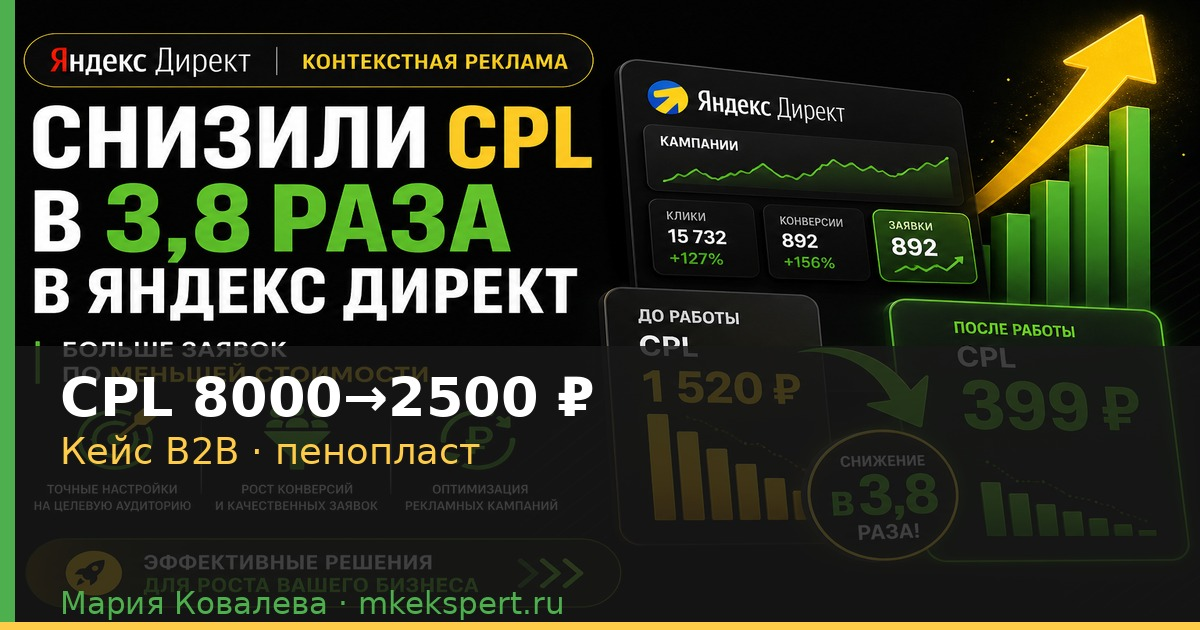
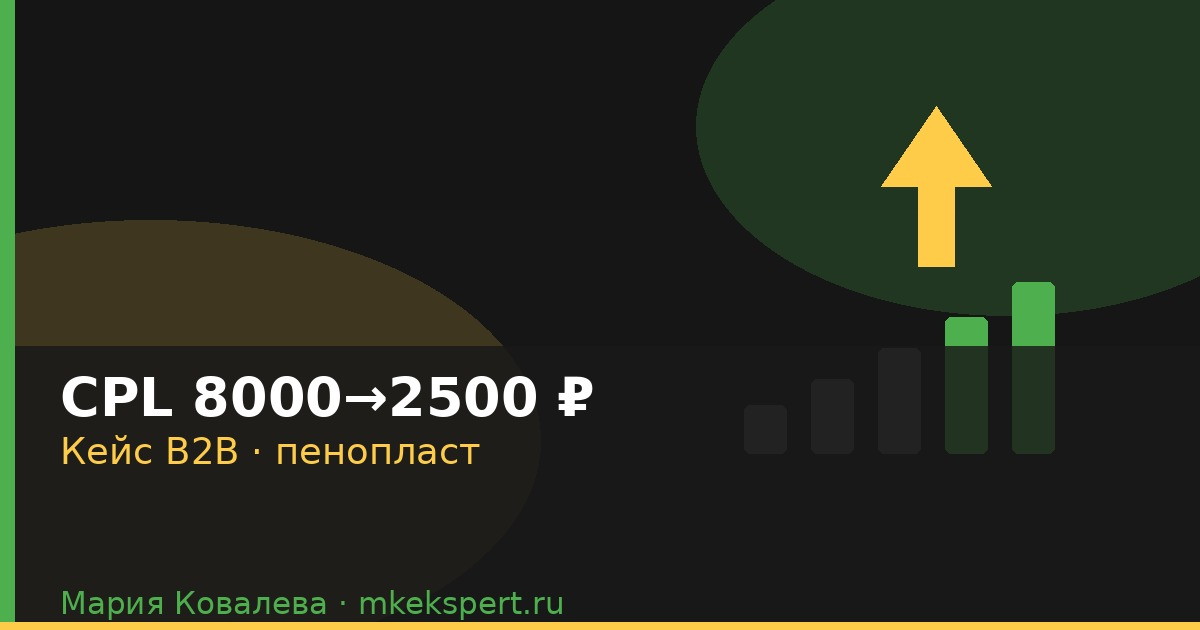
feat(vk): нативная SMM-обложка 4:5 и фикс загрузки фото в VK
- Переработан draw_vk_smm_cover: герой-цифра, ×3 дешевле, чипы метрик
- cover_vk_stats в очереди для вторичных KPI кейса
- upload_vk_wall_photo: имя файла + проверка пустого photo
- Обновлена обложка penoplast-case-vk.jpg, прикреплена к посту #205

diff --git a/автоматизация-контента/automation/generate_cover.py b/автоматизация-контента/automation/generate_cover.py
@@ -6,6 +6,7 @@ from __future__ import annotations
 import argparse
 import base64
 import os
+import re
 import textwrap
 from pathlib import Path
 
@@ -231,7 +232,235 @@ def draw_bright_background(size: tuple[int, int]) -> Image.Image:
     return img
 
 
+def _format_num(s: str) -> str:
+    digits = re.sub(r"\D", "", s)
+    if not digits:
+        return s.strip()
+    return f"{int(digits):,}".replace(",", " ")
+
+
+def _parse_cover_copy(headline: str, subline: str, *, stats: list[str] | None = None) -> dict[str, str | list[str]]:
+    h = headline.replace("–", "→").replace("->", "→")
+    m = re.search(r"(\d[\d\s]*)\s*→\s*(\d[\d\s]*)", h)
+    tag = "КЕЙС B2B"
+    niche = ""
+    if subline:
+        parts = [p.strip() for p in re.split(r"[·•]", subline) if p.strip()]
+        for p in parts:
+            if re.search(r"b2b|кейс", p, re.I):
+                tag = p.upper() if len(p) < 20 else "КЕЙС B2B"
+            else:
+                niche = p
+    metric_label = "CPL заявки"
+    if re.search(r"cpl", h, re.I):
+        metric_label = "CPL заявки"
+    elif re.search(r"заяв", h, re.I):
+        metric_label = "заявки"
+    hook = niche or subline or "Яндекс Директ"
+    extra_stats = [s.strip() for s in (stats or []) if s and s.strip()]
+    if m:
+        was_raw = int(re.sub(r"\D", "", m.group(1)) or "0")
+        now_raw = int(re.sub(r"\D", "", m.group(2)) or "0")
+        multiplier = ""
+        if was_raw > 0 and now_raw > 0 and was_raw > now_raw:
+            ratio = was_raw / now_raw
+            multiplier = f"×{ratio:.0f}" if ratio >= 1.5 else ""
+        return {
+            "mode": "metric",
+            "tag": tag,
+            "was": _format_num(m.group(1)),
+            "now": _format_num(m.group(2)),
+            "metric_label": metric_label,
+            "niche": niche,
+            "hook": f"{niche} · Директ" if niche else "Разбор рекламы",
+            "multiplier": multiplier,
+            "stats": extra_stats,
+        }
+    return {
+        "mode": "text",
+        "tag": tag,
+        "title": headline.rstrip(".?!"),
+        "subtitle": subline,
+        "hook": hook,
+        "stats": extra_stats,
+    }
+
+
+def _text_width(draw: ImageDraw.ImageDraw, text: str, font: ImageFont.FreeTypeFont | ImageFont.ImageFont) -> float:
+    return draw.textlength(text, font=font)
+
+
+def _draw_text_centered(
+    draw: ImageDraw.ImageDraw,
+    text: str,
+    y: int,
+    font: ImageFont.FreeTypeFont | ImageFont.ImageFont,
+    fill: str | tuple[int, int, int],
+    canvas_w: int,
+) -> None:
+    x = int((canvas_w - _text_width(draw, text, font)) // 2)
+    draw.text((x, y), text, fill=fill, font=font)
+
+
+def _draw_strikethrough(
+    draw: ImageDraw.ImageDraw,
+    text: str,
+    x: int,
+    y: int,
+    font: ImageFont.FreeTypeFont | ImageFont.ImageFont,
+    fill: str | tuple[int, int, int],
+) -> None:
+    draw.text((x, y), text, fill=fill, font=font)
+    tw = _text_width(draw, text, font)
+    mid_y = y + font.size // 2
+    draw.line([(x, mid_y), (x + int(tw), mid_y)], fill=fill, width=max(3, font.size // 18))
+
+
+def _draw_stat_chip(
+    draw: ImageDraw.ImageDraw,
+    x: int,
+    y: int,
+    w: int,
+    h: int,
+    value: str,
+    label: str,
+    *,
+    accent: str = ACCENT_GREEN,
+    value_fill: str = TEXT,
+) -> None:
+    draw.rounded_rectangle([x, y, x + w, y + h], radius=22, fill="#1a1a1a", outline=accent, width=2)
+    font_v = load_font(34, bold=True)
+    font_l = load_font(24)
+    draw.text((x + 24, y + 18), value, fill=value_fill, font=font_v)
+    draw.text((x + 24, y + 58), label, fill="#9a9a9a", font=font_l)
+
+
+def draw_vk_smm_cover(headline: str, subline: str, *, stats: list[str] | None = None) -> Image.Image:
+    """Вертикальная обложка 4:5 под ленту VK — нативный SMM-макет."""
+    w, h = VK_PORTRAIT
+    green = hex_rgb(ACCENT_GREEN)
+    yellow = hex_rgb(ACCENT_YELLOW)
+    meta = _parse_cover_copy(headline, subline, stats=stats)
+
+    img = Image.new("RGB", (w, h), "#0c0c0c")
+    draw = ImageDraw.Draw(img)
+
+    # градиент + мягкое свечение
+    for y in range(h):
+        t = y / max(h - 1, 1)
+        base = int(10 + 18 * t)
+        draw.line([(0, y), (w, y)], fill=(base, base, base + 3))
+
+    glow = Image.new("RGBA", (w, h), (0, 0, 0, 0))
+    gd = ImageDraw.Draw(glow)
+    gd.ellipse([w - 640, -240, w + 120, 520], fill=(*green, 70))
+    gd.ellipse([-280, int(h * 0.42), 420, h + 200], fill=(*yellow, 50))
+    gd.ellipse([int(w * 0.15), int(h * 0.55), int(w * 0.95), int(h * 0.98)], fill=(40, 40, 40, 90))
+    img = Image.alpha_composite(img.convert("RGBA"), glow).convert("RGB")
+    draw = ImageDraw.Draw(img)
+
+    # бренд-полосы
+    draw.rectangle([0, 0, 14, h], fill=ACCENT_GREEN)
+    draw.rectangle([0, h - 8, w, h], fill=ACCENT_YELLOW)
+
+    pad = 52
+
+    # тег + ниша
+    font_tag = load_font(28, bold=True)
+    tag = str(meta.get("tag", "КЕЙС"))
+    tag_w = int(_text_width(draw, tag, font_tag)) + 44
+    draw.rounded_rectangle([pad, 44, pad + tag_w, 98], radius=24, fill=green)
+    draw.text((pad + 22, 54), tag, fill="#0a1a0a", font=font_tag)
+
+    if meta["mode"] == "metric":
+        niche = str(meta.get("niche") or "Яндекс Директ")
+        font_niche = load_font(34, bold=True)
+        niche_cap = niche[0].upper() + niche[1:] if niche else ""
+        draw.text((pad + tag_w + 20, 56), niche_cap, fill="#d8d8d8", font=font_niche)
+
+        # мини-график справа вверху
+        chart_x, chart_y = w - pad - 180, 70
+        bars = [28, 42, 56, 78, 96]
+        bar_w = 22
+        for i, bh in enumerate(bars):
+            color = green if i >= 3 else (55, 55, 55)
+            bx = chart_x + i * (bar_w + 10)
+            draw.rounded_rectangle([bx, chart_y + 100 - bh, bx + bar_w, chart_y + 100], radius=5, fill=color)
+
+        # блок «было» — компактно, по центру
+        font_was = load_font(52, bold=True)
+        font_was_lbl = load_font(26)
+        was_text = f"{meta['was']} ₽"
+        was_y = 200
+        was_x = int((w - _text_width(draw, was_text, font_was)) // 2)
+        _draw_strikethrough(draw, was_text, was_x, was_y, font_was, "#c07070")
+        _draw_text_centered(draw, "было", was_y - 34, font_was_lbl, "#666666", w)
+
+        # стрелка вниз = снижение стоимости (хорошо)
+        ax = w // 2
+        draw.rounded_rectangle([ax - 34, 290, ax + 34, 360], radius=18, fill="#1f1f1f", outline=green, width=2)
+        draw.polygon([(ax, 338), (ax + 16, 312), (ax - 16, 312)], fill=green)
+
+        # герой — результат
+        font_now = load_font(128, bold=True)
+        font_metric = load_font(38, bold=True)
+        now_text = f"{meta['now']} ₽"
+        now_y = 400
+        _draw_text_centered(draw, now_text, now_y, font_now, TEXT, w)
+        _draw_text_centered(draw, str(meta["metric_label"]), now_y + 138, font_metric, ACCENT_YELLOW, w)
+
+        # бейдж ×3
+        multiplier = str(meta.get("multiplier") or "")
+        chip_y = 580
+        if multiplier:
+            badge = f"{multiplier} дешевле"
+            font_badge = load_font(36, bold=True)
+            badge_w = int(_text_width(draw, badge, font_badge)) + 56
+            badge_x = (w - badge_w) // 2
+            draw.rounded_rectangle([badge_x, chip_y, badge_x + badge_w, chip_y + 64], radius=32, fill=yellow)
+            draw.text((badge_x + 28, chip_y + 12), badge, fill="#1a1400", font=font_badge)
+            chip_y += 88
+
+        # доп. метрики кейса
+        stat_lines = list(meta.get("stats") or [])
+        if not stat_lines:
+            stat_lines = ["59 заявок/мес", "0,1% → 3%"]
+        chip_h = 96
+        gap = 20
+        if len(stat_lines) >= 2:
+            chip_w = (w - pad * 2 - gap) // 2
+            _draw_stat_chip(draw, pad, chip_y, chip_w, chip_h, stat_lines[0], "после перезапуска")
+            _draw_stat_chip(
+                draw, pad + chip_w + gap, chip_y, chip_w, chip_h,
+                stat_lines[1], "конверсия сайта", accent=ACCENT_YELLOW, value_fill=ACCENT_YELLOW,
+            )
+        elif stat_lines:
+            chip_w = w - pad * 2
+            _draw_stat_chip(draw, pad, chip_y, chip_w, chip_h, stat_lines[0], "результат")
+
+        # подпись канала
+        draw.text((pad, h - 96), "Мария Ковалева · Яндекс Директ", fill=ACCENT_GREEN, font=load_font(30, bold=True))
+        draw.text((pad, h - 58), "mkekspert.ru · кейс на Дзен", fill="#707070", font=load_font(26))
+    else:
+        font_title = load_font(68, bold=True)
+        font_sub = load_font(38, bold=True)
+        y = 200
+        for line in textwrap.wrap(str(meta["title"]), width=14)[:3]:
+            _draw_text_centered(draw, line, y, font_title, TEXT, w)
+            y += 82
+        if meta.get("subtitle"):
+            for line in textwrap.wrap(str(meta["subtitle"]), width=22)[:2]:
+                _draw_text_centered(draw, line, y + 16, font_sub, ACCENT_YELLOW, w)
+                y += 50
+        draw.text((pad, h - 88), "Мария Ковалева · Яндекс Директ", fill=ACCENT_GREEN, font=load_font(30, bold=True))
+        draw.text((pad, h - 52), "mkekspert.ru", fill="#666666", font=load_font(26))
+
+    return img
+
+
 def generate_pil_fallback(headline: str, subline: str, size: tuple[int, int]) -> Image.Image:
+    if size == VK_PORTRAIT:
+        return draw_vk_smm_cover(headline, subline)
     img = draw_bright_background(size)
     return overlay_brand_text(img, headline, subline)
 
@@ -272,6 +501,7 @@ def generate_cover(
     slug: str = "",
     import_path: Path | None = None,
     from_landscape: Path | None = None,
+    vk_stats: list[str] | None = None,
 ) -> Path:
     if vk:
         target = VK_PORTRAIT
@@ -304,7 +534,10 @@ def generate_cover(
             print(f"⚠ GPT: {exc} — fallback PIL")
 
     if img is None:
-        img = generate_pil_fallback(headline, subline, target)
+        if vk:
+            img = draw_vk_smm_cover(headline, subline, stats=vk_stats)
+        else:
+            img = generate_pil_fallback(headline, subline, target)
 
     out.parent.mkdir(parents=True, exist_ok=True)
     img.save(out, "JPEG", quality=92)
@@ -315,20 +548,17 @@ def cover_paths(slug: str) -> tuple[Path, Path]:
     return COVERS / f"{slug}.jpg", COVERS / f"{slug}-vk.jpg"
 
 
-def ensure_covers(slug: str, headline: str, subline: str = "", *, force: bool = False) -> tuple[Path, Path]:
+def ensure_covers(slug: str, headline: str, subline: str = "", *, force: bool = False, vk_stats: list[str] | None = None) -> tuple[Path, Path]:
     landscape, vk_cover = cover_paths(slug)
     if force or not landscape.exists():
         generate_cover(headline, subline, landscape, square=False, slug=slug)
         print(f"✓ {landscape}")
     if force or not vk_cover.exists():
-        if landscape.exists():
-            generate_cover(headline, subline, vk_cover, from_landscape=landscape)
-        else:
-            generate_cover(headline, subline, vk_cover, vk=True, slug=slug)
+        generate_cover(headline, subline, vk_cover, vk=True, slug=slug, use_gpt=False, vk_stats=vk_stats)
         print(f"✓ {vk_cover}")
-    elif force and landscape.exists():
-        generate_cover(headline, subline, vk_cover, from_landscape=landscape)
-        print(f"✓ {vk_cover} (из landscape)")
+    elif force:
+        generate_cover(headline, subline, vk_cover, vk=True, slug=slug, use_gpt=False, vk_stats=vk_stats)
+        print(f"✓ {vk_cover}")
     return landscape, vk_cover
 
 
@@ -373,6 +603,7 @@ def ensure_cover_for_queue_id(campaign_id: str, *, force: bool = False) -> Path 
     slug = Path(item.get("cover", f"assets/covers/{campaign_id}.jpg")).stem.replace("-vk", "")
     headline = item.get("cover_headline", "")
     subline = item.get("cover_subline", "")
+    vk_stats = item.get("cover_vk_stats") or None
 
     if not headline:
         article = item.get("dzen_article", "")
@@ -381,7 +612,7 @@ def ensure_cover_for_queue_id(campaign_id: str, *, force: bool = False) -> Path 
     if not headline:
         headline = campaign_id.replace("-", " ").title()
 
-    landscape, _ = ensure_covers(slug, headline, subline, force=force)
+    landscape, _ = ensure_covers(slug, headline, subline, force=force, vk_stats=vk_stats)
     item["cover"] = f"assets/covers/{slug}.jpg"
     items = data.get("items", [])
     for i, it in enumerate(items):
@@ -443,15 +674,11 @@ def main() -> None:
             print(out)
     if args.variant in ("vk", "both"):
         out = COVERS / f"{args.slug}-vk.jpg"
-        landscape = COVERS / f"{args.slug}.jpg"
         if args.force or not out.exists():
-            if landscape.exists():
-                generate_cover(args.title, args.subtitle, out, from_landscape=landscape)
-            else:
-                generate_cover(
-                    args.title, args.subtitle, out,
-                    vk=True, use_gpt=use_gpt, slug=args.slug, import_path=import_path,
-                )
+            generate_cover(
+                args.title, args.subtitle, out,
+                vk=True, use_gpt=use_gpt, slug=args.slug, import_path=import_path,
+            )
             print(out)
 
 

diff --git a/автоматизация-контента/automation/publish.py b/автоматизация-контента/automation/publish.py
@@ -749,8 +749,15 @@ def resolve_vk_group_id(token: str, group_id: str) -> int:
 def upload_vk_wall_photo(user_token: str, group_id: int, image_path: Path) -> str:
     """Загрузка фото на стену — только пользовательский токен (не ключ сообщества)."""
     up_srv = vk_api("photos.getWallUploadServer", user_token, group_id=group_id)
+    mime = "image/jpeg" if image_path.suffix.lower() in {".jpg", ".jpeg"} else "image/png"
     with image_path.open("rb") as f:
-        up = requests.post(up_srv["upload_url"], files={"photo": f}, timeout=120).json()
+        up = requests.post(
+            up_srv["upload_url"],
+            files={"photo": (image_path.name or "cover.jpg", f, mime)},
+            timeout=120,
+        ).json()
+    if not up.get("photo"):
+        raise RuntimeError(f"VK upload: пустой photo (server={up.get('server')}, hash={up.get('hash')})")
     saved = vk_api(
         "photos.saveWallPhoto",
         user_token,
